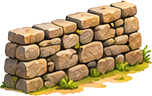
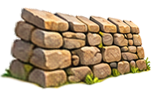
Glen's receding stone wall decoration, set 7 px lower into the grass; ?at=<column> start option for checking spots
Claude-Session: https://claude.ai/code/session_016VHELo1zrDikPBbWGWgYSe

diff --git a/game/main.js b/game/main.js
@@ -34,6 +34,7 @@ const TUNE = {
   TER_FILL_SCALE: 0.3,    // terrain art sizes (pixels on screen)
   TER_TOPSOIL_H: 46, TER_GRASS_RISE: 16,
   TER_ROCKTOP_H: 40, TER_ROCKTOP_RISE: 12,
+  DECO_DROP: { stone_wall: 7 },   // push a decoration down into the grass (pixels)
   WALL_SINK: 8,           // how far dry-stone walls sink into the grass (pixels)
   WALL_FILTER: "brightness(1.18) saturate(0.7) contrast(0.95)",   // lighter, greyer stones, closer to the limestone
   TER_LEDGE_H: 34, TER_PIT_EDGE_H: 150, TER_BASE_H: 84,
@@ -305,7 +306,9 @@ if (LEVEL_NAME === "test") {
   label(170, 6, "The lion's territory");
 }
 
-const spawn = { x: 3 * T, y: GR * T }, lambSpawn = { x: 5 * T, y: GR * T };
+// "?at=160" in the address starts David at column 160 (handy for checking a spot in a level)
+const AT = Number(new URLSearchParams(location.search).get("at")) || 3;
+const spawn = { x: AT * T, y: GR * T }, lambSpawn = { x: (AT + 2) * T, y: GR * T };
 let checkpoint = { ...spawn };
 const isSolid = (c, r) => r >= 0 && r < ROWS && c >= 0 && c < COLS && solid[r][c] > 0;
 const isOneway = (c, r) => r >= 0 && r < ROWS && c >= 0 && c < COLS && oneway[r][c];
@@ -1432,7 +1435,7 @@ function drawBackground(camX) {
 }
 function drawDecor(camX, layer) {
   for (const d of decor) if (d.layer === layer && d.x - camX > -300 && d.x - camX < W + 300)
-    drawItem(d.name, d.x - camX + Math.sin(performance.now() / 25) * 5 * d.shakeT, d.y + 6, d.size * 0.85);
+    drawItem(d.name, d.x - camX + Math.sin(performance.now() / 25) * 5 * d.shakeT, d.y + 6 + (TUNE.DECO_DROP[d.name] || 0), d.size * 0.85);
 }
 function drawLivesAndOil() {
   // lives
